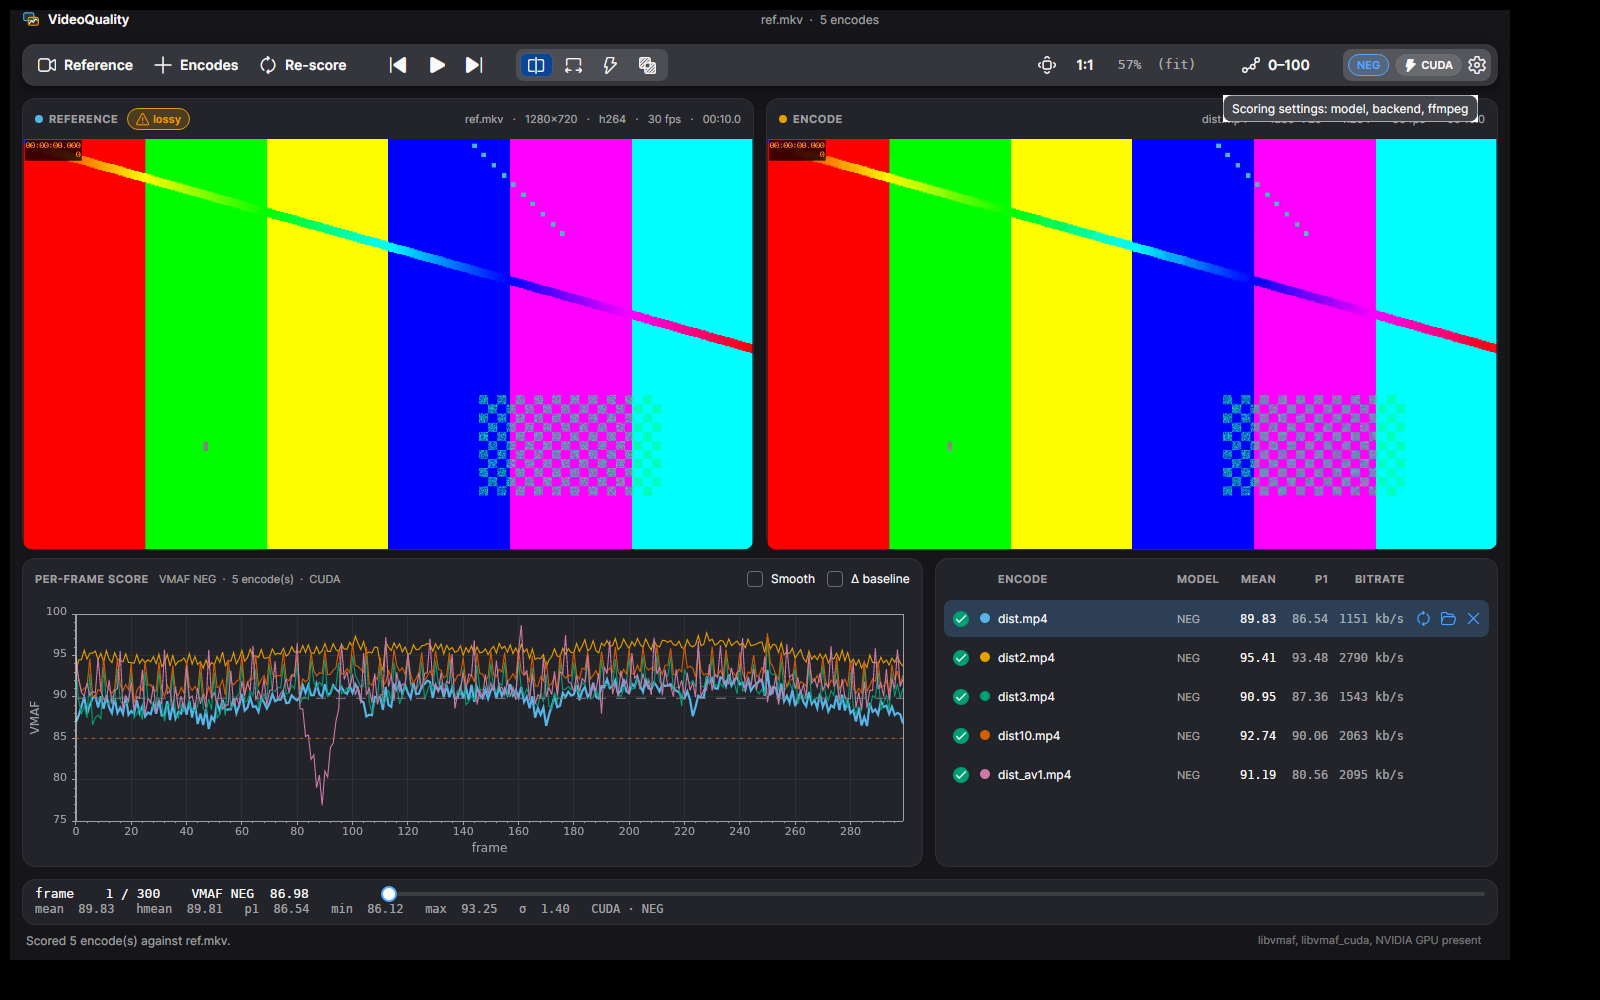
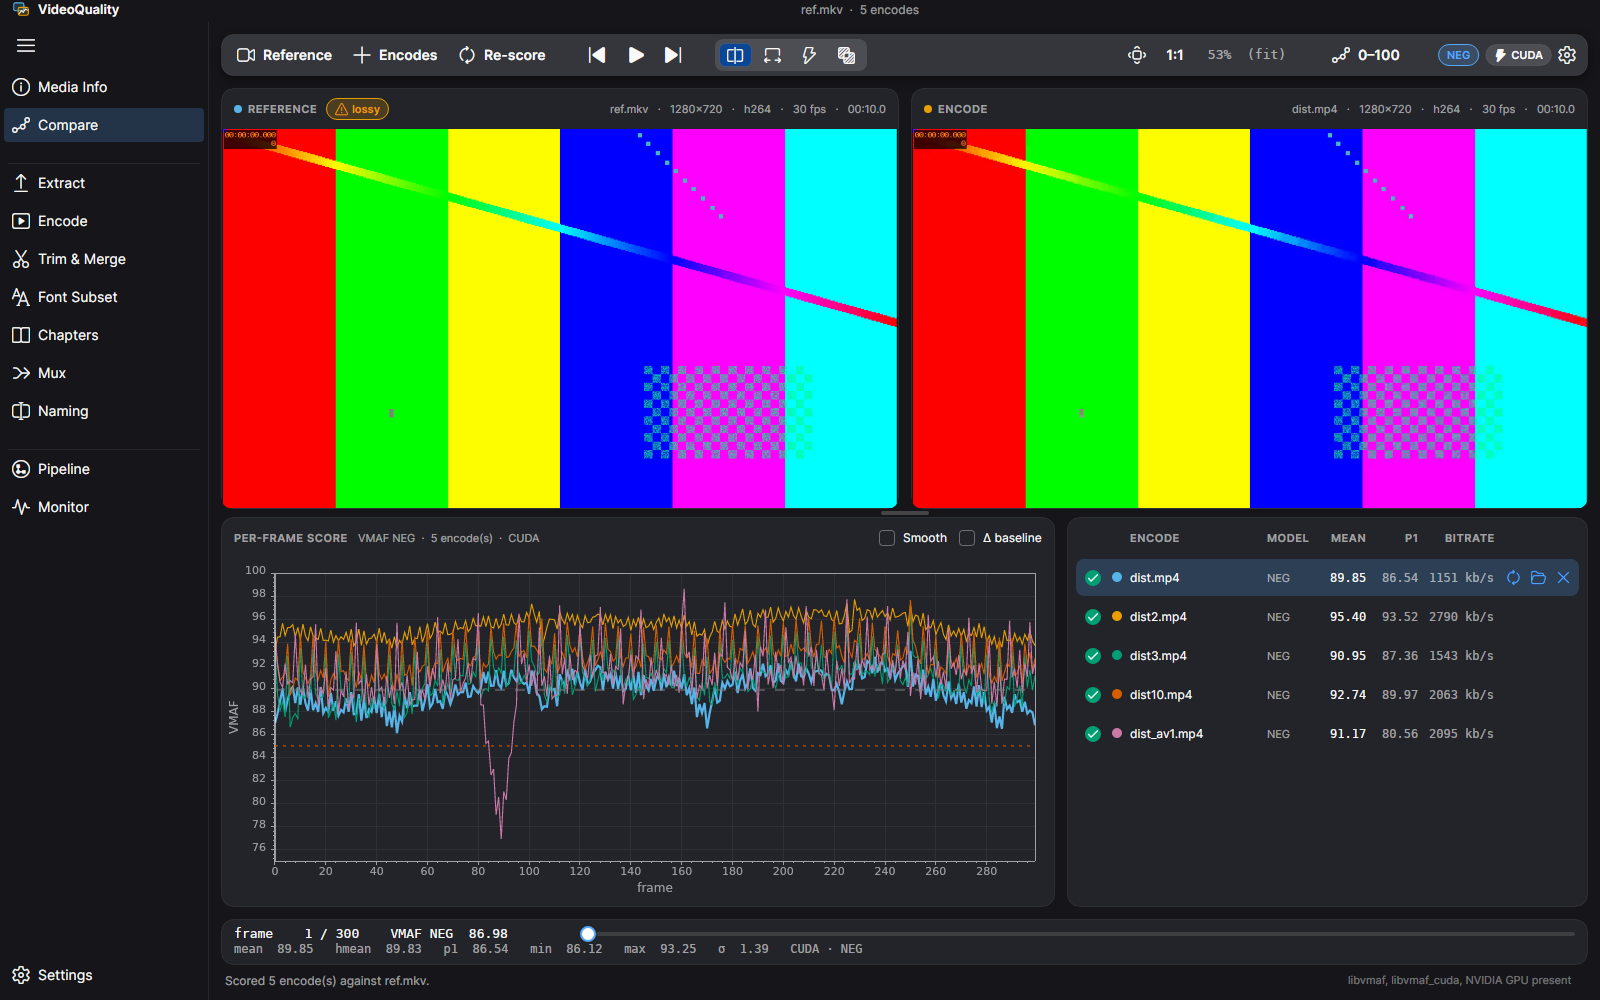
Docs: fresh screenshots of Compare and the toolkit pages
- capture-docs.sh renders in English whatever the saved settings say, fills the Xvfb screen and
  parks the pointer so no tooltip shows.
- New: Pipeline (English and 简体中文), every pipeline step, Encode and Naming, from the headless
  Screenshots test; shown in the README and the pipeline guide.

diff --git a/README.md b/README.md
@@ -135,6 +135,14 @@ measurements.
     <td width="50%"><img src="docs/screenshot-progress.png" alt="Scoring in progress"><br><sub><b>Scoring:</b> per-row progress, two GPU jobs at a time.</sub></td>
     <td width="50%"><img src="docs/screenshot.png" alt="Side by side"><br><sub><b>Side by side:</b> five encodes, NEG model, CUDA backend.</sub></td>
   </tr>
+  <tr>
+    <td width="50%"><img src="docs/screenshot-pipeline.png" alt="Release pipeline"><br><sub><b>Pipeline:</b> filled in from a dropped episode; every step has its own settings.</sub></td>
+    <td width="50%"><img src="docs/screenshot-pipeline-zh.png" alt="发布流程"><br><sub><b>简体中文:</b> the same page; every text is translated.</sub></td>
+  </tr>
+  <tr>
+    <td width="50%"><img src="docs/screenshot-encode.png" alt="Encode"><br><sub><b>Encode:</b> presets (built-in, saved, online), the editor and the queue.</sub></td>
+    <td width="50%"><img src="docs/screenshot-naming.png" alt="Naming"><br><sub><b>Naming:</b> release file names and the release title.</sub></td>
+  </tr>
 </table>
 
 ## Download

diff --git a/docs/pipeline.md b/docs/pipeline.md
@@ -23,6 +23,8 @@ flowchart LR
     burn --> mp4[("…[JPSC].mp4 · …[JPTC].mp4")]
 ```
 
+![The Pipeline page after dropping an episode](screenshot-pipeline.png)
+
 ## Dropping a source
 
 Drop the video (or pick it) and the page fills itself in:
@@ -56,6 +58,13 @@ dimmed; the rest of the run goes on without it.
 | **Burn-in MP4s** | on (web) | the MP4 list · Add MP4 | Each row picks its language tag and the script burned into it. Add as many as you like, from any script. BD releases start with this off. |
 | **Verify** | on | stop on failures | Checks every written file against the rules (name, codec, audio, tracks, fonts, chapters, size). Off "stop" lists the problems and goes on. |
 | **VMAF** | on | model · backend · reference | Scores the encode against the source (or a reference you give). |
+
+<details>
+<summary>Every step's card, with its settings</summary>
+
+![All pipeline steps](screenshot-pipeline-steps.png)
+
+</details>
 
 ```mermaid
 stateDiagram-v2

diff --git a/docs/development.md b/docs/development.md
@@ -194,7 +194,8 @@ scripts/package.sh <rid>          release archive for win-x64 (.zip) or linux-x6
 .github/workflows/release.yml     tag-triggered CI/CD (verify signature → test → FFmpeg → publish)
 artifacts/                 release output (ignored)
 scripts/verify.sh          clean build, solution-membership check, tests, probe
-scripts/capture-docs.sh    regenerates the documentation screenshots
+scripts/capture-docs.sh    regenerates the Compare screenshots (Xvfb, English, full frame); the toolkit
+                           page screenshots come from the Screenshots test (VQ_SCREENSHOTS)
 scripts/coverage.sh        both test projects with coverage, merged, 100% required
 scripts/make-test-cff-font.py builds the CC0 CFF test font in VideoQuality.Tests/Fixtures
 presets/                   shareable encode presets (the default online preset folder)
